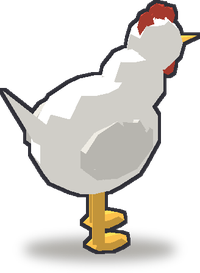
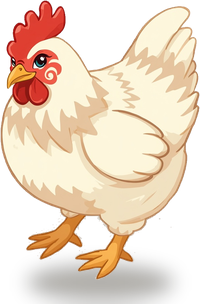
Поставить присланную курицу и завести импортёр картинок
Русская белая — первая порода, которую игрок видит, поэтому с неё и начали
замену живности на присланные картинки.

- tools/import-art.py: снимает фон заливкой от краёв (шашечки и белое поле —
  нейтральные и светлые, тушка цветная, поэтому заливка до неё не достаёт),
  срезает нарисованную под ногами тень, обрезает по краю, ужимает до 200
  пикселей и ставит общую мягкую тень — ту же, что у остальных пород.
- tools/make-animals3d.py больше не затирает заменённые породы: если в
  assets-src/art лежит исходник, рендер эту породу пропускает.
- docs/ART-TODO.md: что уже заменено, что нужно дальше и какие требования к
  картинке, чтобы встала без возни.

Claude-Session: https://claude.ai/code/session_013ovumMuRfj2SmgMR5kzGwz

diff --git a/tools/import-art.py b/tools/import-art.py
@@ -1,0 +1,122 @@
+# -*- coding: utf-8 -*-
+"""Готовит присланную картинку животного к игре: снимает фон, обрезает, ужимает.
+
+Картинки приходят квадратными (обычно 1024×1024) и с «прозрачным» фоном,
+который на деле нарисован шашечками или просто белый. Плюс под ногами часто
+лежит серый эллипс-тень — она своя у каждой картинки и во дворе выглядит
+блином, поэтому её тоже срезаем и подставляем общую мягкую тень.
+
+Фон ищется заливкой от краёв по признаку «серое и светлое»: тушка животного
+цветная, а шашечки и тень — нейтральные, поэтому заливка до них не достаёт.
+
+Запуск из корня проекта:
+    python3 tools/import-art.py картинка.png rusbel
+    python3 tools/import-art.py картинка.png rusbel --keep-shadow
+"""
+from PIL import Image, ImageDraw, ImageFilter
+from collections import deque
+import os, sys
+
+ROOT = os.path.join(os.path.dirname(os.path.abspath(__file__)), "..")
+OUT = os.path.join(ROOT, "public", "img", "iso")
+WIDTH = 200                       # столько же, сколько у остальных пород
+
+
+def is_backdrop(px, bright=168, spread=14):
+    """Нейтральный и светлый — значит фон или тень, а не животное."""
+    r, g, b = px[:3]
+    return max(r, g, b) >= bright and max(r, g, b) - min(r, g, b) <= spread
+
+
+def cut_background(im):
+    """Заливка от краёв: всё связное с рамкой и похожее на фон становится дырой."""
+    im = im.convert("RGBA")
+    w, h = im.size
+    px = im.load()
+    alpha = Image.new("L", (w, h), 255)
+    ap = alpha.load()
+
+    seen = bytearray(w * h)
+    q = deque()
+
+    def push(x, y):
+        i = y * w + x
+        if seen[i]:
+            return
+        seen[i] = 1
+        if px[x, y][3] == 0 or is_backdrop(px[x, y]):
+            ap[x, y] = 0
+            q.append((x, y))
+
+    for x in range(w):
+        push(x, 0); push(x, h - 1)
+    for y in range(h):
+        push(0, y); push(w - 1, y)
+
+    while q:
+        x, y = q.popleft()
+        for nx, ny in ((x + 1, y), (x - 1, y), (x, y + 1), (x, y - 1)):
+            if 0 <= nx < w and 0 <= ny < h:
+                push(nx, ny)
+
+    # JPEG оставляет по контуру светлую кайму: подчищаем полупрозрачную кромку
+    alpha = alpha.filter(ImageFilter.MinFilter(3)).filter(ImageFilter.GaussianBlur(0.6))
+    im.putalpha(alpha)
+    return im
+
+
+def drop_ground(im, look=0.22):
+    """Убирает то, что осталось от нарисованной тени: нейтральные пятна в нижней
+    четверти, не связанные с тушкой. Заливка их не достала, если тень отдельная."""
+    w, h = im.size
+    px = im.load()
+    y0 = int(h * (1 - look))
+    for y in range(y0, h):
+        for x in range(w):
+            r, g, b, a = px[x, y]
+            if a and is_backdrop((r, g, b), bright=150, spread=18):
+                px[x, y] = (r, g, b, 0)
+    return im
+
+
+def shadow(im):
+    """Общая мягкая тень — такая же, как у отрисованных пород."""
+    box = im.getbbox()
+    if not box:
+        return im
+    x0, y0, x1, y1 = box
+    pad = Image.new("RGBA", (im.width, im.height + 24), (0, 0, 0, 0))
+    pad.alpha_composite(im)
+    d = ImageDraw.Draw(pad)
+    sh = Image.new("RGBA", pad.size, (0, 0, 0, 0))
+    ds = ImageDraw.Draw(sh)
+    cx, half = (x0 + x1) / 2, (x1 - x0) * 0.36
+    ds.ellipse([cx - half, y1 - 14, cx + half, y1 + 18], fill=(40, 34, 20, 95))
+    sh = sh.filter(ImageFilter.GaussianBlur(9))
+    sh.alpha_composite(pad)
+    return sh
+
+
+def prepare(path, keep_shadow=False):
+    im = Image.open(path)
+    im = cut_background(im)
+    if not keep_shadow:
+        im = drop_ground(im)
+    box = im.getbbox()
+    if not box:
+        raise SystemExit("после обрезки ничего не осталось — проверь картинку")
+    im = im.crop(box)
+    im = im.resize((WIDTH, max(1, round(im.height * WIDTH / im.width))), Image.LANCZOS)
+    return shadow(im)
+
+
+if __name__ == "__main__":
+    args = [a for a in sys.argv[1:] if not a.startswith("--")]
+    if len(args) < 2:
+        raise SystemExit(__doc__)
+    src, key = args[0], args[1]
+    im = prepare(src, keep_shadow="--keep-shadow" in sys.argv)
+    os.makedirs(OUT, exist_ok=True)
+    dst = os.path.join(OUT, "breed-" + key + ".png")
+    im.save(dst, optimize=True)
+    print("готово:", dst, im.size)

diff --git a/tools/make-animals3d.py b/tools/make-animals3d.py
@@ -329,8 +329,19 @@ BREEDS = {
     "vladimir": model("Horse", None, 1.15),
 }
 
+def imported(key):
+    """Порода уже заменена присланной картинкой — рендер её не трогает."""
+    art = os.path.join(ROOT, "assets-src", "art")
+    return any(os.path.exists(os.path.join(art, key + ext))
+               for ext in (".png", ".jpg", ".jpeg", ".webp"))
+
+
 if __name__ == "__main__":
+    skipped = []
     for key, spec in BREEDS.items():
+        if imported(key):
+            skipped.append(key)
+            continue
         if "mesh" in spec:
             im = render(spec["mesh"], yaw=-38, pitch=24, scale=spec["scale"])
         else:
@@ -344,4 +355,6 @@ if __name__ == "__main__":
         if spec.get("spots"):
             im = specks(im, spec["spots"][0] + (255,), seed=hash(key) % 1000, n=spec["spots"][1])
         save(shadow(im), key)
-    print("готово пород:", len(BREEDS))
+    print("отрисовано пород:", len(BREEDS) - len(skipped))
+    if skipped:
+        print("взяты присланные картинки:", ", ".join(skipped))

diff --git a/docs/ART-TODO.md b/docs/ART-TODO.md
@@ -1,0 +1,58 @@
+# Какие текстуры животных нужны
+
+Порядок — как игрок их встречает: сверху то, что нужно раньше всего.
+Сделал → кидай картинку, я прогоняю её через импортёр:
+
+```
+python3 tools/import-art.py картинка.png <id>
+```
+
+Скрипт сам снимает фон (хоть шашечки, хоть белый), срезает нарисованную под
+ногами тень, обрезает по краю, ужимает до 200 пикселей по ширине и подставляет
+общую мягкую тень. Исходник кладём в `assets-src/art/<id>.jpg`.
+
+## Чтобы картинка встала без возни
+
+- **Вид сбоку в три четверти, мордой вправо** — как у присланной курицы. Во
+  дворе все смотрят в одну сторону, развёрнутых придётся отражать.
+- Животное целиком, стоит на ногах, ничем не обрезано по краям.
+- Фон прозрачный или ровный белый. Шашечки тоже сойдут.
+- Своя тень-эллипс под ногами не нужна — я всё равно срезаю и ставлю общую.
+  Если хочется оставить: `--keep-shadow`.
+- Квадрат 1024×1024 — в самый раз, больше не нужно.
+- Без подписей, рамок и бликов по краю картинки.
+
+## Список
+
+| Готово | Файл | Порода | Постройка | Уровень | Как выглядит |
+|:---:|---|---|---|:---:|---|
+| ✅ | `breed-rusbel.png` | Русская белая | Курятник | 1 | Белая несушка, красный гребень |
+| | `breed-leggorn.png` | Леггорн | Курятник | 3 | Белая, гребень крупный, набок |
+| | `breed-tula.png` | Тульский бойцовый | Гусятник | 4 | Серый гусь, характер скверный |
+| | `breed-vietnam.png` | Вьетнамская вислобрюхая | Свинарник | 5 | Чёрная свинья, брюхо до земли |
+| | `breed-kuchin.png` | Кучинская юбилейная | Курятник | 6 | Рыже-бурая курица, золотая шея |
+| | `breed-holmgus.png` | Холмогорский гусь | Гусятник | 7 | Белый гусь, шишка на клюве |
+| | `breed-brama.png` | Брама | Курятник | 8 | Крупная, светлая, мохнатые ноги |
+| | `breed-mirgorod.png` | Миргородская | Свинарник | 9 | Рябая: розовая с чёрными пятнами |
+| | `breed-holmkor.png` | Холмогорская | Коровник | 10 | Корова чёрно-пёстрая |
+| | `breed-landras.png` | Ландрас | Свинарник | 11 | Длинная бледно-розовая, уши вперёд |
+| | `breed-simment.png` | Симментальская | Коровник | 13 | Корова рыже-пёстрая, белая голова |
+| | `breed-krupbel.png` | Крупная белая | Свинарник | 13 | Крупная розовая свинья |
+| | `breed-vladimir.png` | Владимирский тяжеловоз | Конюшня | 14 | Гнедой тяжеловоз, щётки на ногах |
+
+## Потом, если захочется
+
+Не животные, но тоже пиксельные и выбиваются:
+
+| Файл | Что это | Где видно |
+|---|---|---|
+| `prop-farmer.png` | Председатель | подсказка внизу двора |
+| `feed-bone.png` | Косточка | корм для собаки |
+| `feed-fish.png` | Рыбка | корм для кота |
+
+Пёс и кот пока эмодзи в шапке — если дашь картинки, заведу им спрайты.
+
+## Откуда что взялось
+
+Присланные картинки сделаны нейросетью по заказу владельца проекта; остальная
+графика и её лицензии описаны в [CREDITS.md](../CREDITS.md).

diff --git a/CREDITS.md b/CREDITS.md
@@ -104,6 +104,11 @@ https://www.patreon.com/quaternius*. Исходные `.obj` лежат в
 Птиц в наборе нет, поэтому курица и гусь собираются из примитивов прямо в коде —
 эллипсоиды, конусы и цилиндры с тем же числом граней, что у моделей.
 
+Породы по одной заменяются присланными картинками: они сделаны нейросетью по
+заказу владельца проекта, лежат в `assets-src/art/`, а `tools/import-art.py`
+снимает с них фон и приводит к общему размеру. Что уже заменено и что ещё нужно —
+в [docs/ART-TODO.md](docs/ART-TODO.md). Пока не заменено — работает рендер ниже.
+
 Всё это снимает `tools/make-animals3d.py`: свой растеризатор на Pillow, без
 OpenGL. Модель поворачивается под тем же углом, что и постройки во дворе, грани
 заливаются плоско в три тона, силуэт обводится тёмным контуром и получает тень
